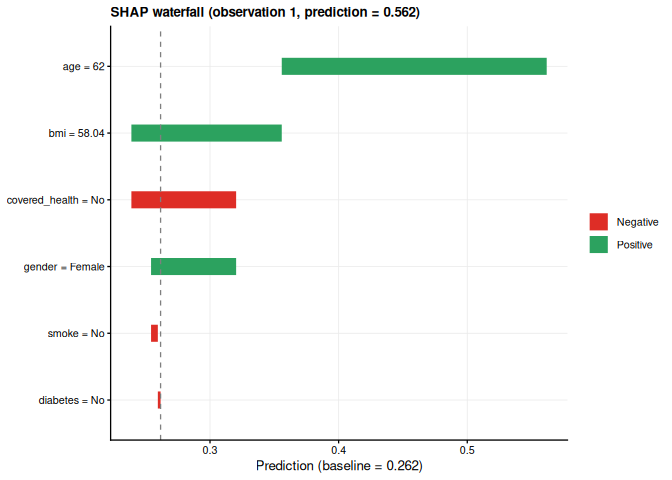
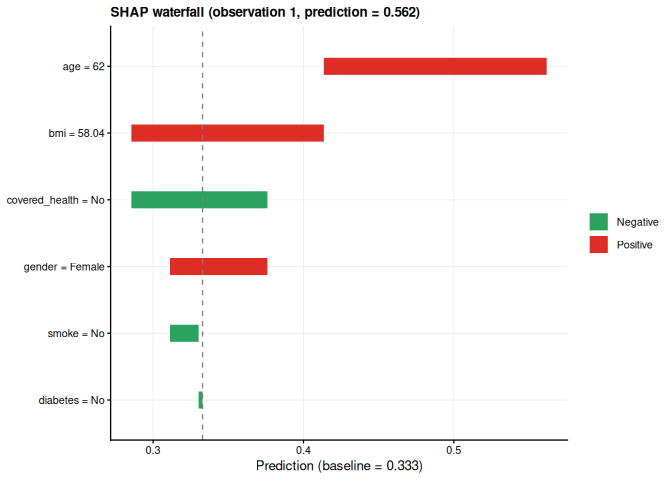
Re-knit README SHAP figure with corrected waterfall colors
Positive contributions are now red and negative are green, matching
the 0.8.1 color swap; the baseline/prediction values also shifted
slightly from the 0.8.2 SHAP seeding change.

diff --git a/README.md b/README.md
@@ -274,30 +274,18 @@ eval_obj <- evaluate(
 
 eval_obj
 #> <funcml_eval> model: xgboost | task: classification
-#>               metric       mean          sd n   std_error conf_level   conf_low
-#> 1           accuracy 0.74732290 0.014617703 4 0.007308852       0.95 0.72406287
-#> 2          precision 0.69316319 0.023420234 4 0.011710117       0.95 0.65589637
-#> 3             recall 0.64049156 0.017832484 4 0.008916242       0.95 0.61211610
-#> 4        specificity 0.64049156 0.017832484 4 0.008916242       0.95 0.61211610
-#> 5                 f1 0.66573813 0.019521730 4 0.009760865       0.95 0.63467470
-#> 6  balanced_accuracy 0.64049156 0.017832484 4 0.008916242       0.95 0.61211610
-#> 7            logloss 0.49248120 0.008783385 4 0.004391692       0.95 0.47850488
-#> 8              brier 0.32776953 0.007550594 4 0.003775297       0.95 0.31575485
-#> 9                auc 0.78694529 0.011843752 4 0.005921876       0.95 0.76809924
-#> 10               ece 0.03590688 0.004195513 4 0.002097757       0.95 0.02923089
-#> 11               mce 0.08002388 0.013678803 4 0.006839402       0.95 0.05825786
-#>     conf_high
-#> 1  0.77058293
-#> 2  0.73043001
-#> 3  0.66886702
-#> 4  0.66886702
-#> 5  0.69680156
-#> 6  0.66886702
-#> 7  0.50645753
-#> 8  0.33978421
-#> 9  0.80579135
-#> 10 0.04258288
-#> 11 0.10178991
+#>               metric   mean     sd n std_error conf_level conf_low conf_high
+#> 1           accuracy 0.7473 0.0146 4    0.0073       0.95   0.7241    0.7706
+#> 2          precision 0.6932 0.0234 4    0.0117       0.95   0.6559    0.7304
+#> 3             recall 0.6405 0.0178 4    0.0089       0.95   0.6121    0.6689
+#> 4        specificity 0.6405 0.0178 4    0.0089       0.95   0.6121    0.6689
+#> 5                 f1 0.6657 0.0195 4    0.0098       0.95   0.6347    0.6968
+#> 6  balanced_accuracy 0.6405 0.0178 4    0.0089       0.95   0.6121    0.6689
+#> 7            logloss 0.4925 0.0088 4    0.0044       0.95   0.4785    0.5065
+#> 8              brier 0.3278 0.0076 4    0.0038       0.95   0.3158    0.3398
+#> 9                auc 0.7869 0.0118 4    0.0059       0.95   0.7681    0.8058
+#> 10               ece 0.0359 0.0042 4    0.0021       0.95   0.0292    0.0426
+#> 11               mce 0.0800 0.0137 4    0.0068       0.95   0.0583    0.1018
 ```
 
 ``` r
@@ -337,10 +325,8 @@ tune_obj <- tune(
 tune_obj
 #> <funcml_tune> metric=logloss direction=min search=grid
 #> Best:
-#>   max_depth eta nrounds      mean       sd n   std_error conf_level conf_low
-#> 8         3 0.1      30 0.4932667 0.011934 3 0.006890096       0.95 0.463621
-#>   conf_high
-#> 8 0.5229124
+#>   max_depth eta nrounds   mean     sd n std_error conf_level conf_low conf_high
+#> 8         3 0.1      30 0.4933 0.0119 3    0.0069       0.95   0.4636    0.5229
 ```
 
 ``` r
@@ -366,20 +352,20 @@ compare_obj <- compare_learners(
 
 compare_obj
 #> <funcml_compare> task: classification | tuned: FALSE
-#>     model   metric      mean          sd n   std_error conf_level  conf_low
-#> 1     glm accuracy 0.7450577 0.017034681 4 0.008517341       0.95 0.7179517
-#> 2     glm  logloss 0.4897129 0.013140445 4 0.006570223       0.95 0.4688036
-#> 3   rpart accuracy 0.7337315 0.016711299 4 0.008355649       0.95 0.7071401
-#> 4   rpart  logloss 0.5310715 0.012975648 4 0.006487824       0.95 0.5104243
-#> 5 xgboost accuracy 0.7473229 0.014617703 4 0.007308852       0.95 0.7240629
-#> 6 xgboost  logloss 0.4924812 0.008783385 4 0.004391692       0.95 0.4785049
-#>   conf_high tuned rank
-#> 1 0.7721636 FALSE    2
-#> 2 0.5106223 FALSE    1
-#> 3 0.7603229 FALSE    3
-#> 4 0.5517186 FALSE    3
-#> 5 0.7705829 FALSE    1
-#> 6 0.5064575 FALSE    2
+#>     model   metric   mean     sd n std_error conf_level conf_low conf_high
+#> 1     glm accuracy 0.7451 0.0170 4    0.0085       0.95   0.7180    0.7722
+#> 2     glm  logloss 0.4897 0.0131 4    0.0066       0.95   0.4688    0.5106
+#> 3   rpart accuracy 0.7337 0.0167 4    0.0084       0.95   0.7071    0.7603
+#> 4   rpart  logloss 0.5311 0.0130 4    0.0065       0.95   0.5104    0.5517
+#> 5 xgboost accuracy 0.7473 0.0146 4    0.0073       0.95   0.7241    0.7706
+#> 6 xgboost  logloss 0.4925 0.0088 4    0.0044       0.95   0.4785    0.5065
+#>   tuned rank
+#> 1 FALSE    2
+#> 2 FALSE    1
+#> 3 FALSE    3
+#> 4 FALSE    3
+#> 5 FALSE    1
+#> 6 FALSE    2
 ```
 
 ``` r
@@ -532,8 +518,8 @@ plot(roc_obj)
 
 ``` r
 auc_ci(truth_vec, prob_vec)
-#>         auc  conf_low conf_high conf_level method
-#> 1 0.8055957 0.7928614 0.8183301       0.95 delong
+#>      auc conf_low conf_high conf_level method
+#> 1 0.8056   0.7929    0.8183       0.95 delong
 ```
 
 ## Estimate causal effects
